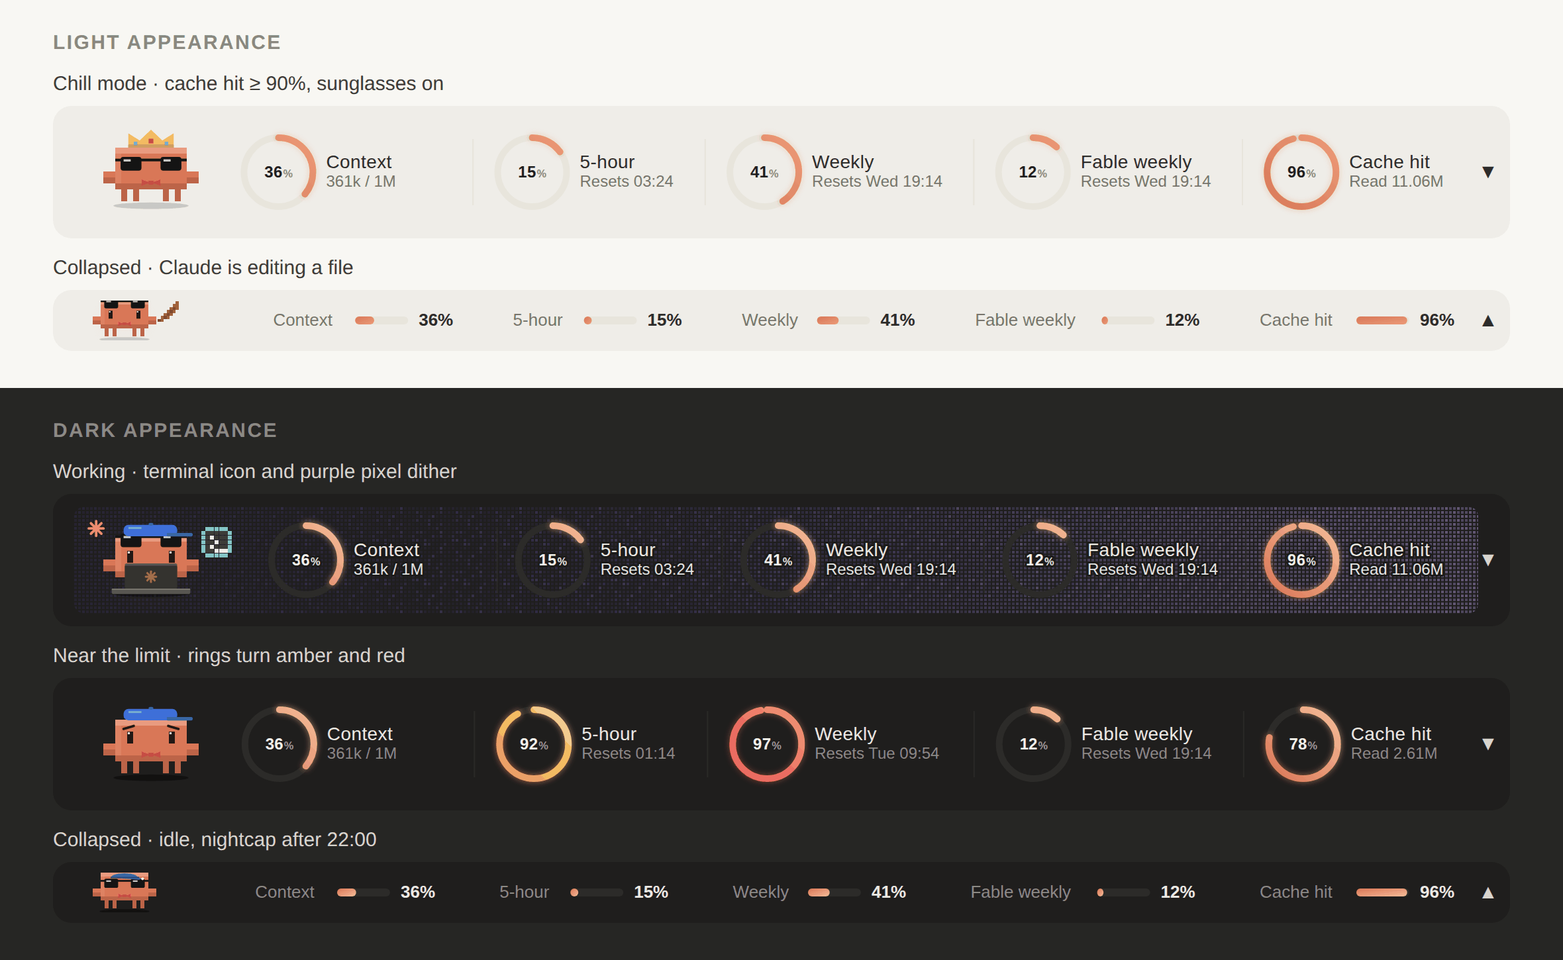
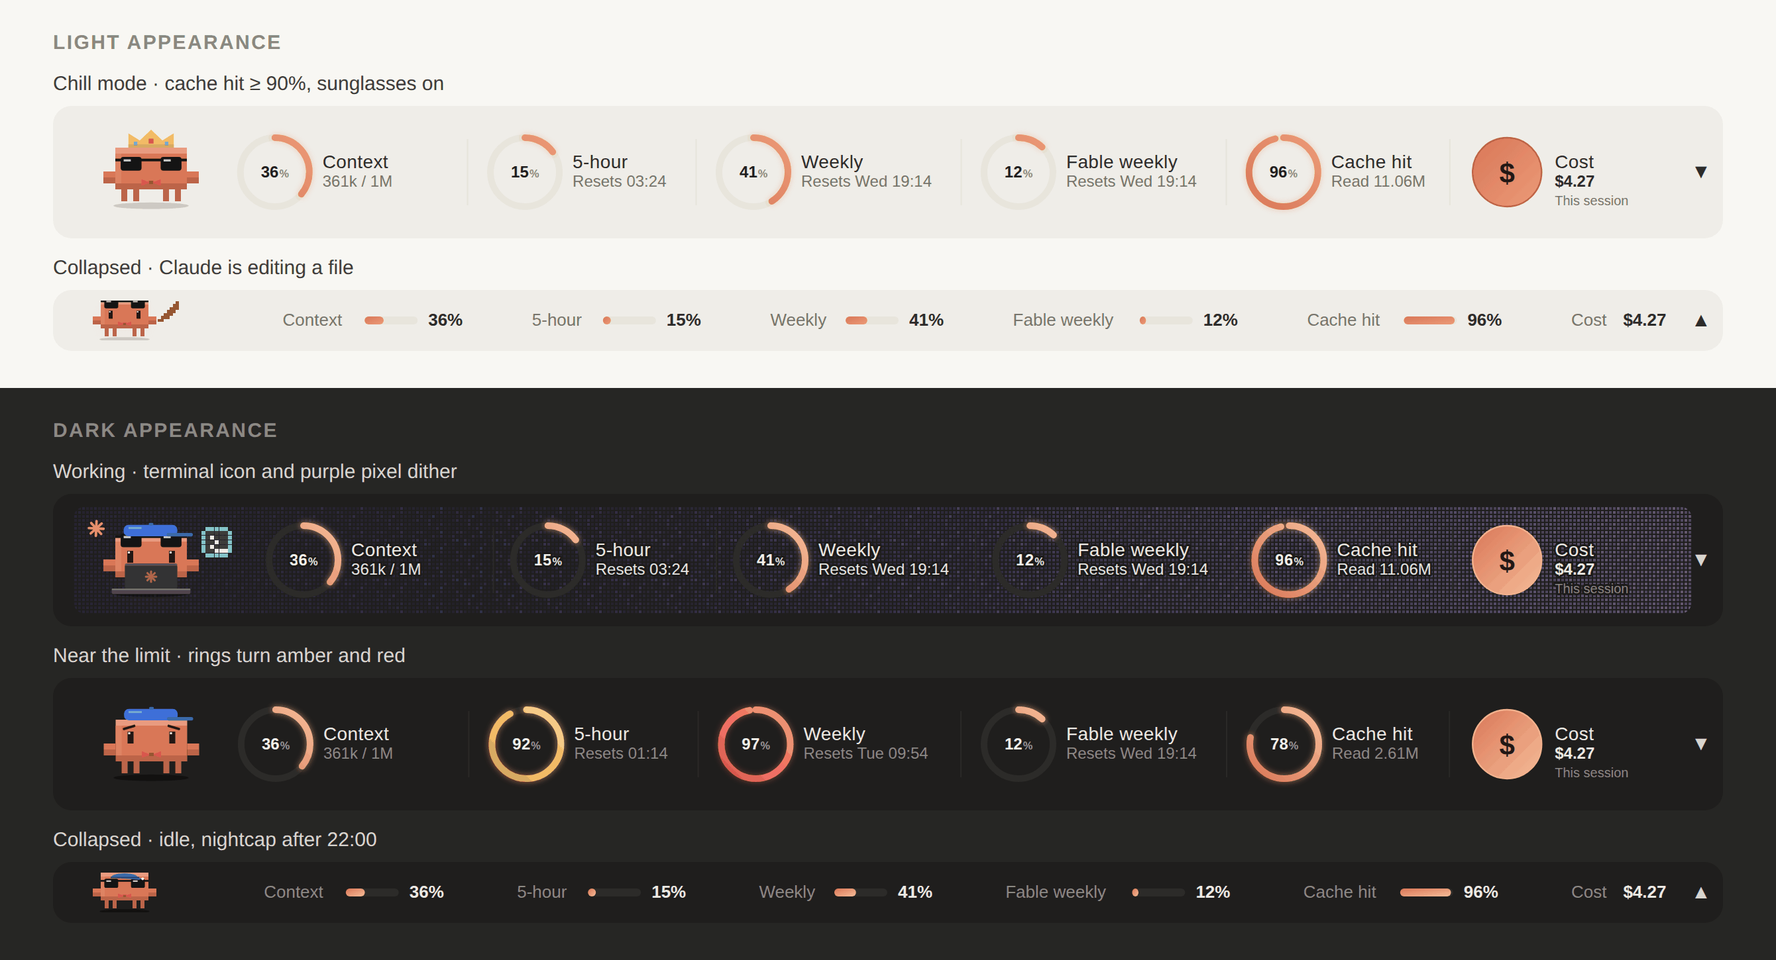
usage-pet 1.13.1: declare version in plugin.json; refresh README and images
Set "version": "1.13.1" in plugin.json and document that each release
bumps it together with changelog.ts. Regenerate the demo GIF and preview
with the cost block and update the README version and cost wording.

diff --git a/plugins/usage-pet/hooks/changelog.ts b/plugins/usage-pet/hooks/changelog.ts
@@ -1,5 +1,5 @@
 // 更新日志：最新的放最前面。每次发布改动，在这里加一条（中英各一份），只作版本记录，插件不再弹出提示。
-// version 是给人看的版本号（plugin.json 故意不写 version，安装版本按提交号算）。
+// version 要和 plugin.json 的 version 一致；每次发布两处一起改，否则用户收不到更新。
 import type { Lang } from './i18n'
 
 export type Release = { version: string; notes: Record<Lang, string[]> }

diff --git a/README.md b/README.md
@@ -3,7 +3,7 @@
 为 **Claude 桌面 App 的 Code 页** 做的 mod（Claude Code 插件）。
 Mods for the **Code tab of the Claude Desktop app**.
 
-![Working with the terminal tool icon and purple pixel dither, editing with a pencil icon, Claude asks a question with a blinking “?”, then after the reply Clawd is happy as the rings count up with +N% chips, followed by idle with the “60m” cache countdown next to Cache hit](assets/usage-pet-demo.gif)
+![Working with the terminal tool icon and purple pixel dither, editing with a pencil icon, Claude asks a question with a blinking “?”, then after the reply Clawd is happy as the rings count up with +N% chips. A Cost block with a $ badge stays after Cache hit, changing from $3.86 to $4.27; idle shows the “60m” cache countdown](assets/usage-pet-demo.gif)
 
 > **让 AI 代理帮你装？/ Installing with an AI agent?** 让它在终端运行下面两行 · Have it run these two commands in a shell:
 >
@@ -30,7 +30,7 @@ Forked from [manson341349-beep/claude-desktop-mods](https://github.com/manson341
 | --- | --- |
 | [`usage-pet`](plugins/usage-pet) | 输入框上方的用量信息栏 + Clawd 像素桌宠 · A usage band above the prompt with Clawd, an animated pixel pet |
 
-![Light mode shows the expanded band in chill mode with sunglasses and a crown, plus a collapsed strip while editing with a pencil icon. Dark mode shows work with a terminal icon and purple dither, near-limit amber and red rings, and a collapsed idle Clawd wearing a nightcap](assets/usage-pet-preview.png)
+![Light mode shows the expanded band in chill mode with sunglasses and a crown, including a $ badge and “Cost $4.27 This session” after Cache hit, plus a collapsed editing strip showing “Cost $4.27”. Dark mode shows work with a terminal icon and purple dither, near-limit amber and red rings, and a collapsed idle Clawd wearing a nightcap; each band has the Cost block after Cache hit](assets/usage-pet-preview.png)
 
 ![A grid of Clawd's looks, each shown expanded and collapsed: idle, working with a terminal icon, needs you (!), question (?), done, sleep, compacting, tests pass, tests fail, oops, tantrum, morning coffee, night cap, autumn, winter, Christmas and New Year](assets/usage-pet-looks.png)
 
@@ -40,14 +40,14 @@ Forked from [manson341349-beep/claude-desktop-mods](https://github.com/manson341
 
 ## 中文
 
-### usage-pet：Clawd 信息栏（v1.13.0）
+### usage-pet：Clawd 信息栏（v1.13.1）
 
 - **四个基础用量环**：上下文、5 小时额度、每周额度、缓存命中率（仅主对话本会话，排除子代理）；圆环、标签和百分比比早期版本更大。80% 变琥珀色，95% 变红，缓存命中低于 50% 才提醒
 - **Fable 每周（可选第五环）**：有额度时显示在每周之后，沿用额度环的琥珀色 / 红色阈值。仅当符合条件的 Claude 订阅 OAuth 登录有 Fable 每周额度时显示；API 密钥、Bedrock/Vertex、网关、未登录或请求失败时不显示，刷新失败保留上次读数。插件在会话开始和回复后自行 GET Anthropic 用量接口（`https://api.anthropic.com/api/oauth/usage`），最多每 5 分钟一次；宿主添加凭据，插件看不到令牌，也不发送提示词、回复或遥测。策略 `CLAUDE_CODE_DISABLE_NONESSENTIAL_TRAFFIC` 或组织网页请求限制可能会阻止获取
 - **自动折叠**：平时是一条 30px 的细条；数值变化时（回复后、用量刷新或 Fable 读数变化）展开 5 秒，播完动画再收起
 - **展开时**：圆环依次扫入、数字像老虎机一样滚动、旁边飘出「+N%」
 - **缓存倒计时**：Claude 工作时隐藏，首轮回复后才显示在缓存命中旁（订阅约 1 小时、API 密钥 5 分钟，每次回复重新计时），剩 5 分钟变色，过期显示「已过期」。缓存过期后下一轮要把整段对话重新写入缓存，更耗额度
-- **本会话费用**：新增与 `/cost` 显示的 API 等价费用；订阅用户看到的是估算，不是账单
+- **本会话费用**：在 Cache hit 后显示；展开时有 `$` 徽章和「费用 $… 本会话」，收起时显示「费用 $…」。终端和 `/clawd-card` 也显示费用。金额与 `/cost` 的 API 等价总额一致；订阅金额是估算，不是账单；宿主未提供费用时隐藏
 - **Clawd 的活动与心情**：工作时显示对应工具图标，深色模式下信息栏有紫色像素点阵；空闲时呼吸、眨眼、张望；10 分钟无活动后睡觉。权限请求和计划批准（`ExitPlanMode`）显示「!」，`AskUserQuestion` 显示「?」；测试通过/失败、工具报错和烦躁也有专属反应（20 分钟内 3 次后跺脚，`tantrums: off` 关闭）。任何 5 小时、每周或 Fable 额度达到 90% 都会冒汗；仅当缓存命中 ≥90% 且没有额度达到 90% 才戴墨镜（点子来自 [@Joshua_WD](https://x.com/Joshua_WD)）
 - **工具图标**：Bash/PowerShell 是终端，Edit/Write/MultiEdit/NotebookEdit 是铅笔，Read/Grep/Glob 是放大镜，WebFetch/WebSearch 是地球，Agent/Task 是闪电，MCP 工具是小图标，其余是转圈图标
 - **时段与季节装扮**：北半球季节；咖啡 06:00–10:00，夜帽 22:00–06:00，圣诞节 12 月 20–26 日，新年 12 月 31 日至 1 月 1 日。`seasonal: off` 关闭这些装扮
@@ -56,7 +56,7 @@ Forked from [manson341349-beep/claude-desktop-mods](https://github.com/manson341
 - **配置**：`seasonal` 和 `tantrums` 填 `off`（不分大小写、忽略首尾空格）才会关闭；其他值保持开启
 - **浅色 / 深色**：跟着 Claude App 的外观设置自动切换，背景始终透明
 - **养成**：Claude 每答完一轮 Clawd 涨 10 点经验（缓存命中 ≥90% 再 +5，每天第一轮 +20）。Lv.2 长出小芽、Lv.3 戴红领结、Lv.5 戴帽子、Lv.10 戴皇冠。悬停可看等级、经验和连续天数；展开时也显示近 7 天用量。8 个成就中，缓存大师、夜猫子、极限操作、一周不停等只在 `/clawd-card` 列出本会话新解锁项，不弹出提示；数据跨会话保存
-- **战报卡**：输入 `/clawd-card`，生成本次会话的战报（时长、回合、工具调用、改动文件、Tokens、缓存命中、等级、本次解锁的成就），复制到剪贴板、存到「图片/Clawd Reports」（只留最近 20 张，更早的自动移进废纸篓），直接粘贴到 X（macOS 用系统自带的 Quick Look 导出；Windows 用系统自带的 Edge，没有 Edge 时用 Chrome，旧图移进回收站）
+- **战报卡**：输入 `/clawd-card`，生成本次会话的战报（时长、回合、工具调用、改动文件、Tokens、缓存命中、费用、等级、本次解锁的成就），复制到剪贴板、存到「图片/Clawd Reports」（只留最近 20 张，更早的自动移进废纸篓），直接粘贴到 X（macOS 用系统自带的 Quick Look 导出；Windows 用系统自带的 Edge，没有 Edge 时用 Chrome，旧图移进回收站）
 - **万圣节**（10 月 25 日到 11 月 1 日）：Clawd 戴巫师帽、拎南瓜桶；Claude 干活时披上床单变幽灵，旁边飘的代码换成糖果。每答完一轮他会举起桶**讨糖**：点他一下就是给糖（开心 3 秒），连点两下空翻、三下跳起来撒糖；12 秒没人理他就生气跺脚，点一下就消气。不想要时段、季节和节日装扮：`/config` 里把 `seasonal` 填成 `off`
 - **鼠标**：放到 Clawd 身上会冒爱心，点它会空翻；放到圆环上显示详细数值
 - **近 7 天用量**：信息栏展开时，鼠标放到 Clawd 身上显示最近 7 天（从现在往回 7×24 小时）用了多少 tokens，所有会话合计、含子代理；战报卡上也有这一行。插件自己按小时记账（Claude 只给当前会话的用量），所以从装上 1.9.0 起才开始记，不满 7 天时会写明从哪天开始
@@ -92,7 +92,7 @@ claude plugin update usage-pet@claude-desktop-mods
 
 ### 需要什么 / 已知限制
 
-- Claude 桌面 App 的 **Code 页**支持浅色和深色。终端显示上下文、5 小时、每周（和 Fable）进度条及可用时的本会话费用，没有缓存命中或 Clawd；Remote Control、手机和网页端不显示
+- Claude 桌面 App 的 **Code 页**支持浅色和深色。终端显示上下文、5 小时、每周（和 Fable）进度条及宿主有提供时的本会话费用，没有缓存命中或 Clawd；Remote Control、手机和网页端不显示
 - Claude Code **2.1.287 起**默认支持 mod；作者在 2.1.286（macOS）上实测，Windows 从 1.6.0 起支持
 - Windows 导出战报图片要用 Windows PowerShell 5.1（系统自带）和 Edge 或 Chrome
 - 桌面 App 目前有一个重画 bug（[anthropics/claude-code#99211](https://github.com/anthropics/claude-code/issues/99211)）：状态变化时动画会从头播；▲▼ 按钮偶尔点不动，可以用 `/clawd` 代替
@@ -107,14 +107,14 @@ claude plugin uninstall usage-pet@claude-desktop-mods
 
 ## English
 
-### usage-pet (v1.13.0)
+### usage-pet (v1.13.1)
 
 - **Four base rings**: context, 5-hour limit, weekly limit and cache hit rate (cumulative for the main conversation this session, excluding subagents), plus an optional fifth Fable weekly ring. Rings, labels and percentages are larger than in earlier versions. Amber at 80%, red at 95%; cache hit warns below 50%
 - **Fable weekly**: when available, this separate allowance appears after Weekly with percent used and reset time, using the same amber/red thresholds. It appears only for an eligible first-party OAuth Claude subscription; API keys, Bedrock/Vertex, gateways, no login or a failed request leave it hidden, and refresh failures keep the last good value. The plugin fetches it at session start and after replies, at most every 5 minutes, using host-side authorization; no token, prompts, replies or telemetry are sent. `CLAUDE_CODE_DISABLE_NONESSENTIAL_TRAFFIC` or an organization policy can block the GET.
 - **Auto-collapse**: a 30px strip most of the time; when numbers change, it expands for 5 seconds after a reply, usage refresh or Fable reading, then collapses
 - **Expanded**: rings sweep in, digits roll like an odometer, `+N%` chips float up
 - **Cache countdown**: hidden while Claude works; appears next to Cache hit after the first reply (about 1 hour on a subscription, 5 minutes on an API key; every reply restarts it). Amber in the last 5 minutes, "cold" once expired. A cold cache means the next turn re-caches the whole conversation.
-- **Session cost**: adds the API-equivalent cost total shown by `/cost`; subscription amounts are estimates, not bills.
+- **Session cost**: shown after Cache hit as a $ badge and `Cost $… This session` when expanded, or `Cost $…` in the collapsed strip; also shown in the terminal and as a `/clawd-card` tile. It matches `/cost`'s API-equivalent total; subscription amounts are estimates, not bills. Hidden when the host reports no cost.
 - **Clawd's activity and moods**: shows the matching tool icon while working, with a purple pixel dither across the band in dark mode; breathes, blinks and sleeps after 10 idle minutes. Permission requests and plan approval (`ExitPlanMode`) show "!"; `AskUserQuestion` shows "?". He reacts to test pass/fail, tool errors and frustration (three frustrated composer prompts in 20 minutes trigger a tantrum; `tantrums: off` disables it). Any 5-hour, weekly or Fable limit at 90% makes him sweat; sunglasses require cache hit ≥90% and no limit at 90%+.
 - **Tool icons**: Bash/PowerShell → terminal; Edit/Write/MultiEdit/NotebookEdit → pencil; Read/Grep/Glob → magnifier; WebFetch/WebSearch → globe; Agent/Task → bolt; MCP tools → mini icon; other tools → spinner
 - **Seasonal moods**: northern-hemisphere seasons; coffee 06:00–10:00, nightcap 22:00–06:00, Christmas Dec 20–26, New Year Dec 31–Jan 1. `seasonal: off` disables time-of-day, seasonal and holiday looks.
@@ -123,7 +123,7 @@ claude plugin uninstall usage-pet@claude-desktop-mods
 - **Settings**: `seasonal` and `tantrums` are disabled only by `off` (case-insensitive, surrounding spaces ignored); any other value keeps them on
 - **Light / dark**: follows the Claude app appearance, always on a transparent background
 - **Growth**: Clawd earns 10 XP per turn (+5 at 90%+ cache hit, +20 for the first turn of the day), with a sprout at Lv.2, bow tie at Lv.3, cap at Lv.5 and crown at Lv.10. Hover for level, XP and streak, plus the last-7-days line while expanded. Of 8 achievements (Cache master, Night owl, Close call, Full week…), only those newly unlocked this session appear on `/clawd-card`; there are no pop-ups, and progress persists across sessions.
-- **Report card**: `/clawd-card` makes a card of this session (duration, turns, tool calls, files edited, tokens, cache hit, level, achievements unlocked this session), copies it to the clipboard and saves it to Pictures/Clawd Reports (keeps the latest 20; older ones go to the Trash), ready to paste into X (exported with Quick Look on macOS; on Windows with Edge, or Chrome, and older cards go to the Recycle Bin)
+- **Report card**: `/clawd-card` makes a card of this session (duration, turns, tool calls, files edited, tokens, cache hit, cost when available, level, achievements unlocked this session), copies it to the clipboard and saves it to Pictures/Clawd Reports (keeps the latest 20; older ones go to the Trash), ready to paste into X (exported with Quick Look on macOS; on Windows with Edge, or Chrome, and older cards go to the Recycle Bin)
 - **Halloween** (Oct 25 to Nov 1): Clawd wears a witch hat and carries a pumpkin pail; while Claude works he turns into a bedsheet ghost and candy floats up instead of code. After each turn he holds out his pail for **trick or treat**: click him once to give candy (he's happy for 3 seconds), twice for a flip, three times and he jumps for joy and throws candy. Ignore him for 12 seconds and he stomps in a huff until you click. Turn time-of-day, seasonal and holiday looks off with `seasonal: off` in `/config`
 - **Pointer**: hover Clawd for hearts, click for a flip; hover a ring for details
 - **Last 7 days**: with the band expanded, hover Clawd to see how many tokens you used in the last 7 days (the past 7×24 hours), all sessions together, subagents included; the report card shows it too. The plugin keeps its own hourly tally (Claude only reports the current session), so counting starts when you install 1.9.0, and until a full week has passed it says since when
@@ -151,7 +151,7 @@ Auto-update is **off by default** for third-party marketplaces. Turn it on in `/
 
 ### Requirements and known issues
 
-- The **Code tab of Claude Desktop**, light or dark appearance. The terminal shows context, 5-hour, weekly and optional Fable bars plus session cost when available, with no cache hit or Clawd; Remote Control, mobile and web show nothing
+- The **Code tab of Claude Desktop**, light or dark appearance. The terminal shows context, 5-hour, weekly and optional Fable bars plus session cost when the host provides it, with no cache hit or Clawd; Remote Control, mobile and web show nothing
 - Mods are on by default from Claude Code **2.1.287**; tested by the author on 2.1.286 (macOS); Windows is supported from 1.6.0
 - On Windows, exporting the report card needs Windows PowerShell 5.1 (built in) and Edge or Chrome
 - Desktop redraws every mod site on any state change ([anthropics/claude-code#99211](https://github.com/anthropics/claude-code/issues/99211)), which restarts animations and can make the ▲▼ button miss clicks; `/clawd` always works
@@ -165,8 +165,8 @@ claude plugin validate plugins/usage-pet
 claude plugin test plugins/usage-pet
 ```
 
-发布改动时，在 [`plugins/usage-pet/hooks/changelog.ts`](plugins/usage-pet/hooks/changelog.ts) 最前面加一条，作为项目版本记录；插件不会自动弹出更新说明。
-When you ship a change, add an entry at the top of `changelog.ts` as the project release record; the plugin does not show it automatically.
+发布改动时，在 [`plugins/usage-pet/hooks/changelog.ts`](plugins/usage-pet/hooks/changelog.ts) 最前面加一条作为项目版本记录，并将 [`plugins/usage-pet/.claude-plugin/plugin.json`](plugins/usage-pet/.claude-plugin/plugin.json) 的 `version` 更新为相同版本号；插件不会自动弹出更新说明。
+When you ship a change, add an entry at the top of `changelog.ts` and set `version` in [`plugins/usage-pet/.claude-plugin/plugin.json`](plugins/usage-pet/.claude-plugin/plugin.json) to the same number; the plugin does not show release notes automatically.
 
 做桌面端 mod 踩过的坑：[docs/desktop-mod-notes.md](docs/desktop-mod-notes.md)
 Pitfalls we hit building a desktop mod: [docs/desktop-mod-notes.md](docs/desktop-mod-notes.md)

diff --git a/plugins/usage-pet/README.md b/plugins/usage-pet/README.md
@@ -1,8 +1,8 @@
 # usage-pet
 
-A usage band above the prompt in the **Code tab of Claude Desktop**: context, 5-hour limit, weekly limit and cache hit rate, plus an optional Fable weekly ring, with Clawd, a pixel pet who keeps you company while Claude works. Current version: **1.13.0**.
+A usage band above the prompt in the **Code tab of Claude Desktop**: context, 5-hour limit, weekly limit and cache hit rate, plus an optional Fable weekly ring, with Clawd, a pixel pet who keeps you company while Claude works. Current version: **1.13.1**.
 
-![Light mode shows the expanded band in chill mode with sunglasses and a crown, plus a collapsed strip while editing with a pencil icon. Dark mode shows work with a terminal icon and purple dither, near-limit amber and red rings, and a collapsed idle Clawd wearing a nightcap](https://raw.githubusercontent.com/Geek0x0/claude-desktop-mods/main/assets/usage-pet-preview.png)
+![Light mode shows the expanded band in chill mode with sunglasses and a crown, including a $ badge and “Cost $4.27 This session” after Cache hit, plus a collapsed editing strip showing “Cost $4.27”. Dark mode shows work with a terminal icon and purple dither, near-limit amber and red rings, and a collapsed idle Clawd wearing a nightcap; every band has the Cost block after Cache hit](https://raw.githubusercontent.com/Geek0x0/claude-desktop-mods/main/assets/usage-pet-preview.png)
 
 ![A grid of Clawd's looks, each shown expanded and collapsed: idle, working with a terminal icon, needs you (!), question (?), done, sleep, compacting, tests pass, tests fail, oops, tantrum, morning coffee, night cap, autumn, winter, Christmas and New Year](https://raw.githubusercontent.com/Geek0x0/claude-desktop-mods/main/assets/usage-pet-looks.png)
 
@@ -13,16 +13,16 @@ A usage band above the prompt in the **Code tab of Claude Desktop**: context, 5-
 - **Four base rings**: context, 5-hour limit, weekly limit and cache hit rate (cumulative for the main conversation this session; subagents excluded), plus an optional fifth Fable weekly ring. Rings, labels and percentages are larger than in earlier versions. Hover for exact numbers.
 - **Optional Fable weekly ring**: appears after Weekly when the account has that allowance, with percent used and reset time; it uses the same amber/red thresholds. Clawd sweats when any 5-hour, weekly or Fable limit reaches 90%. It appears only with an eligible first-party OAuth Claude subscription login. API keys, Bedrock/Vertex, gateways, no login or a failed request leave it hidden; a failed later refresh keeps the last good value.
 - **Cache countdown**: hidden while Claude works; appears next to Cache hit after the first reply (about 1 hour on a subscription, 5 minutes on an API key). It turns amber in the last 5 minutes and says "cold" once expired.
-- **Session cost**: shows the API-equivalent cost total reported by `/cost`; subscription amounts are estimates, not bills.
+- **Session cost**: shown after Cache hit as a $ badge and `Cost $… This session` when expanded, or `Cost $…` in the collapsed strip; also shown in the terminal and as a `/clawd-card` tile. It matches `/cost`'s API-equivalent total; subscription amounts are estimates, not bills. Hidden when the host reports no cost.
 - **Clawd's activity and moods**: matching tool icons while Claude works, with a purple pixel dither across the band in dark mode; breathing, blinking and sleep after 10 idle minutes. Permission requests and plan approval (`ExitPlanMode`) show "!"; `AskUserQuestion` shows "?". He reacts to test pass/fail, tool errors and frustration (three frustrated composer prompts in 20 minutes trigger a tantrum; `tantrums: off` disables it). Sunglasses require cache hit ≥90% and no limit at 90%+; hover him for hearts, click for a flip.
 - **Tool icons**: Bash/PowerShell → terminal; Edit/Write/MultiEdit/NotebookEdit → pencil; Read/Grep/Glob → magnifier; WebFetch/WebSearch → globe; Agent/Task → bolt; MCP tools → mini icon; other tools → spinner.
 - **Seasonal moods**: northern-hemisphere seasons; coffee 06:00–10:00, nightcap 22:00–06:00, Christmas Dec 20–26, New Year Dec 31–Jan 1. `seasonal: off` disables time-of-day, seasonal and holiday looks.
 - **Last 7 days**: with the band expanded, hover Clawd for the tokens used in the last 7 days, all sessions together, subagents included; the report card shows it too. Counted by the plugin itself from 1.9.0 on.
 - **Growth**: Clawd earns XP for every reply and levels up (sprout, bow tie, cap, crown). Hover for level, XP and streak, plus the last-7-days line while expanded. Achievements appear only on `/clawd-card`, and only those newly unlocked this session; no pop-ups, progress persists across sessions.
-- **Report card**: `/clawd-card` draws a card of the session (duration, turns, tool calls, files edited, tokens, cache hit, level, achievements unlocked this session) and saves it as a PNG you can paste anywhere.
+- **Report card**: `/clawd-card` draws a card of the session (duration, turns, tool calls, files edited, tokens, cache hit, cost when available, level, achievements unlocked this session) and saves it as a PNG you can paste anywhere.
 - **Halloween** (Oct 25 to Nov 1): witch hat, pumpkin pail, ghost mode while Claude works, and trick-or-treat after each reply. Turn time-of-day, seasonal and holiday looks off by setting `seasonal` to `off` in `/config`.
 - **Collapses out of the way**: a 30px strip most of the time; expands for five seconds when the numbers change. `/clawd` or the ▲▼ button keeps it open.
-- English and Chinese, light and dark appearance, macOS and Windows. The terminal shows context, 5-hour, weekly and optional Fable bars plus session cost when available, with no cache hit or Clawd; Remote Control, mobile and web show nothing.
+- English and Chinese, light and dark appearance, macOS and Windows. The terminal shows context, 5-hour, weekly and optional Fable bars plus session cost when the host provides it, with no cache hit or Clawd; Remote Control, mobile and web show nothing.
 
 ## Install
 
